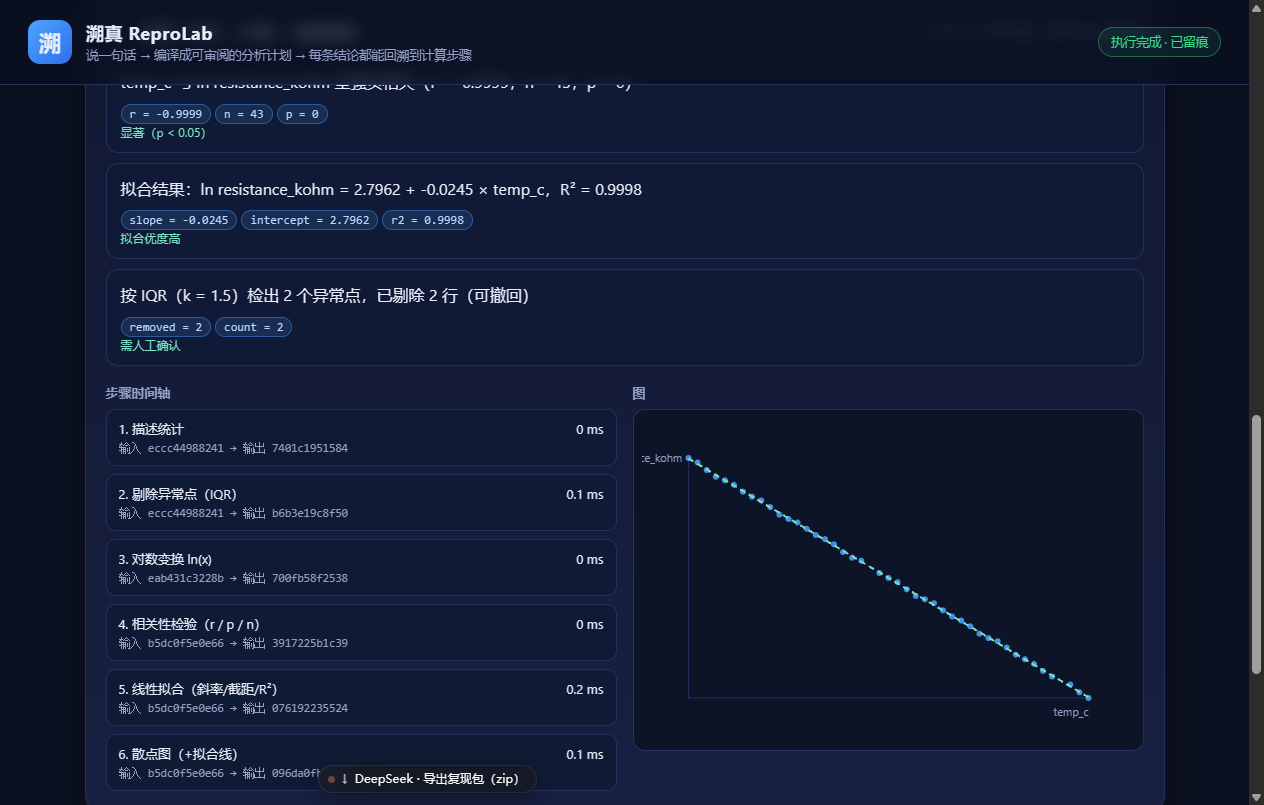
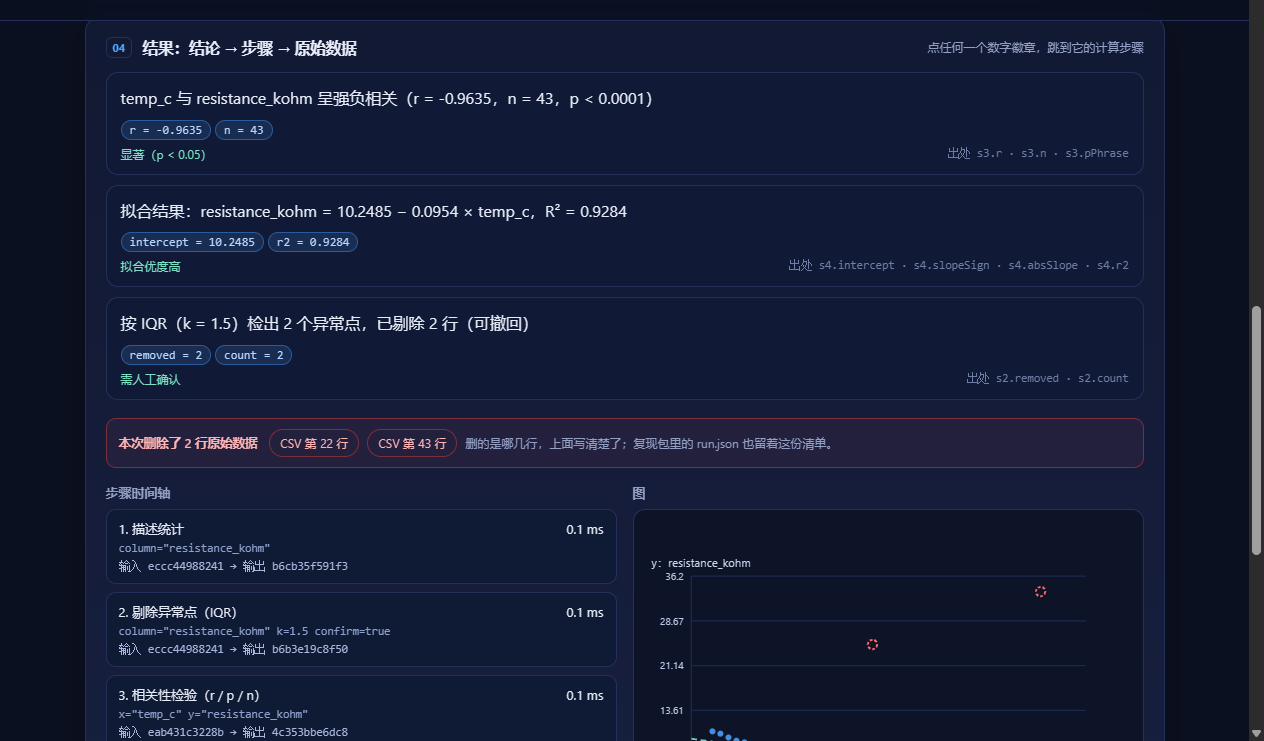
docs: 界面截图换成当前版本（4 张）、新增演示视频分镜与口播要点

diff --git a/demo/视频分镜.md b/demo/视频分镜.md
@@ -1,0 +1,95 @@
+# 演示视频分镜（5–8 分钟 · 含 ≥2 分钟 AI 协同复现）
+
+> 官方要求：5–8 分钟；**至少 2 分钟展示 AI 协同复现过程**；链接须公开可访问（B 站 / 抖音）。
+> 目标：让评委在 90 秒内看懂「一句话 → 可审阅计划 → 每步留痕 → 逐位复现」，再用 2 分钟看懂「AI 怎么被约束、怎么迭代」。
+
+---
+
+## 一、录制前 5 分钟准备
+
+| 项 | 做法 |
+| :-- | :-- |
+| 窗口 | 浏览器全屏 1920×1080，缩放 125%；关掉所有通知（微信/QQ/邮件） |
+| 终端 | 单独一个窗口，字体调到 18px，只留 `reprolab` 目录 |
+| 隐私 | 桌面不放私人文件；终端路径不要出现用户名以外的个人信息；录制里不要出现 API Key |
+| 预跑 | 先跑一遍「一键演示」确认 8 秒能跑完；再手动跑一遍热手 |
+| 素材 | `work/reprolab/docs/` 四张界面图、`prompts/screenshots/` 四张会话截图备用（放第二个屏幕） |
+| 录屏 | OBS / Win+G，只录浏览器窗口 + 终端窗口；分辨率 1080p，30fps |
+
+---
+
+## 二、分镜表
+
+### 第 1 段｜痛点与定位（0:00–0:45）
+
+| 画面 | 操作 | 口播要点 |
+| :-- | :-- | :-- |
+| 空白浏览器 → 打开 `http://127.0.0.1:5173` | 首页滚动一次 | 「做实验、写报告的人都有个共同痛点：结论和数据对不上，别人复现不出来。 ReproLab 把一句话变成一份可审阅的计划，每条结论都能点回它的计算步骤。」 |
+| 首页（data 接入区） | 鼠标划过 dropzone | 「零依赖纯前端，数据不出本机，断网也能跑。」 |
+
+### 第 2 段｜完整闭环（0:45–2:15）
+
+| 画面 | 操作 | 口播要点 |
+| :-- | :-- | :-- |
+| 点「▶ 一键演示」 | 全流程自动 | 「我点一键演示，它会把真实流程走一遍，方便评委 30 秒看清结构。」 |
+| 停在第 03 步计划卡 | 暂停 3 秒 | 「注意这一步：AI 只能输出这 6 个算子的 JSON，第 2 步是删数据，属于破坏性操作，执行按钮是灰的——必须我勾选确认。」 |
+| 展开「查看计划 DSL」 | 点开 → 再收起 | 「这就是 AI 的全部产出，一屏能读完，没有一句话是模型直接执行的代码。」 |
+| 勾选确认 → 执行 | 点执行 | 「执行在浏览器内，每一步都留输入/输出哈希和耗时。」 |
+
+### 第 3 段｜结论溯源（2:15–3:00）
+
+| 画面 | 操作 | 口播要点 |
+| :-- | :-- | :-- |
+| 结论卡 | 鼠标停在 `r = -0.9635` 徽章上 | 「r 不是一个写死的字符串，它绑在 s3 的输出字段上；字段不存在，页面直接拒绝渲染。」 |
+| 点徽章 | 时间轴对应步骤高亮 | 「点一下，就跳到算出这个数的步骤。」 |
+| 滚到图 | 停留 3 秒 | 「图上两个红圈就是被剔掉的 2 行原始数据，第 22、43 行——删了什么，看得见。」 |
+
+### 第 4 段｜复现（3:00–3:40）
+
+| 画面 | 操作 | 口播要点 |
+| :-- | :-- | :-- |
+| 点「重跑一致性校验」 | 等结果 | 「同一数据 + 同一计划，重跑两次产物哈希逐位相同。」 |
+| 点「导出复现包」 | 等下载 | 「导出的是数据、计划、执行记录、报告，还有一份自带校验脚本。」 |
+| 切终端 | `cd 下载目录 && unzip -o reprolab-*.zip -d check && cd check && node verify.mjs` | 「评委不需要打开 ReproLab，一条命令就能验：数据哈希、产物指纹、算子白名单。」 |
+| 终端（可选加戏） | 改 `run.json` 里一个数字 → 再跑 `node verify.mjs` | 「改任何一个数字，它立刻 FAIL 并返回退出码 1。」 |
+
+### 第 5 段｜AI 协同复现（3:40–6:10，**≥2 分钟**）
+
+这一段是评分重点：不是演「AI 帮我写代码」，而是演「我怎么约束它、怎么发现它错、怎么改回来」。
+
+| 画面 | 操作 | 口播要点 |
+| :-- | :-- | :-- |
+| 全屏展示 `prompts/screenshots/` 四张会话截图 | 一张张过 | 「需求、方案、建仓这三段发生在 CherryStudio，AI 给的是作战手册，我按它执行——这是原始会话，没改过。」 |
+| 全屏展示 `prompts/README.md` | 滚到 iter-01 | 「真正的代码迭代有 8 轮，每轮一个 commit，记录 AI 产出、我发现了什么问题、怎么改的。」 |
+| 讲 iter-01 的 bug | 高亮那段文字 | 「第一版解析器把 CSV 里的 `#` 注释行当表头，测试直接挂。我没有让它自己修，而是先把约束写清楚：注释行必须跳过，示例数据用 Node 重新生成——因为用 PowerShell 写中文文件会被按 GBK 读。」 |
+| 打开 `tests/kernel.test.mjs` | 滚到那条测试 | 「问题修完立刻固化成测试，13 条测试现在是这条链的护栏。」 |
+| 展示 `src/kernel/index.js` 里的 `canonicalArtifact` | 高亮函数 | 「复现的口径只有一处实现：界面重跑、导出包、第三方校验都用它，避免‘两套哈希对不上’。」 |
+| 讲 iter-07 的翻车修复 | 展示 `src/export/package.js` 里的 verify 脚本 | 「第一版导出的校验脚本引用了包外文件，评委解压后根本跑不起来——这是我自测时发现的，重写成零依赖自包含，并且加了篡改检测。」 |
+
+### 第 6 段｜边界与收尾（6:10–6:50）
+
+| 画面 | 操作 | 口播要点 |
+| :-- | :-- | :-- |
+| README 的「已知边界」 | 停留 | 「我不吹它能做一切：支持 5 万行以内、6 个算子、单文件单用户；跨 CPU 浮点差异没验证。边界写清楚，比夸大更可信。」 |
+| 结尾定格到首页 | 慢滚 | 「溯真 ReproLab：结论有出处，过程可复现。」 |
+
+---
+
+## 三、B 站发布建议
+
+- 标题：`传智杯 B 组｜溯真 ReproLab：让每条数据分析结论都能被复现`
+- 简介写清：赛项、作品定位、仓库地址、10 分钟复现命令；
+- 分区：科技 → 计算机技术；标签：`数据分析` `可复现` `AI` `传智杯` `Vibe Coding`；
+- 封面用 `docs/ui-04-chart.png`（散点图 + 红圈），加两行字：「一句话出计划」「结论可溯源」；
+- **发布后确认「公开」**并把链接填进预提交表单。
+
+---
+
+## 四、自查清单（录完逐条打勾）
+
+- [ ] 总时长在 5–8 分钟之间
+- [ ] 「AI 协同复现」这一段 ≥2 分钟，且**讲了发现问题 → 改约束 → 加测试**，不是只放生成过程
+- [ ] 全程没有个人信息、API Key、桌面私密文件
+- [ ] 演示跑通三次：一键演示、手动闭环、导出包 + 终端校验
+- [ ] 口播里出现关键词：可复核、可追溯、逐位一致、白名单、人工确认
+- [ ] 结尾有仓库地址与「10 分钟复现」提示

diff --git a/README.md b/README.md
@@ -27,6 +27,16 @@ node serve.mjs
 
 零依赖：没有 `npm install`，没有构建产物，断网也能跑（LLM 可选，不配 Key 走本地规则编译）。
 
+## 界面
+
+| 数据接入 | 分析计划（含人工确认闸门） |
+| :--: | :--: |
+| ![首页](docs/ui-01-home.png) | ![计划](docs/ui-02-plan.png) |
+
+| 结论 → 步骤溯源 | 时间轴 + 散点图（红圈＝被剔除行） |
+| :--: | :--: |
+| ![结果](docs/ui-03-results.png) | ![图表](docs/ui-04-chart.png) |
+
 ## 核心闭环
 
 ```
@@ -69,9 +79,10 @@ reprolab/
 │  │  └─ package.js         # 复现包：数据/计划/结果/报告/清单 + 自带 verify.mjs 校验脚本
 │  └─ ui/app.js             # 工作台交互与渲染（含一键演示、内联提示、DSL 视图、图注）
 ├─ sample-data/thermal.csv  # 示例数据（含 2 个离群点）
-├─ tests/kernel.test.mjs    # 10 条单测（node --test 或直接 node 运行）
-├─ docs/                    # 作品介绍、提交清单
-└─ prompts/                 # AI 协同过程记录（迭代日志）
+├─ tests/kernel.test.mjs    # 13 条单测（node --test 或直接 node 运行）
+├─ demo/视频分镜.md          # 5–8 分钟演示视频的分镜与口播要点
+├─ docs/                    # 界面截图、技术文档、提交清单
+└─ prompts/                 # AI 协同过程记录（8 轮迭代 + 4 张真界面截图）
 ```
 
 ## 测试
